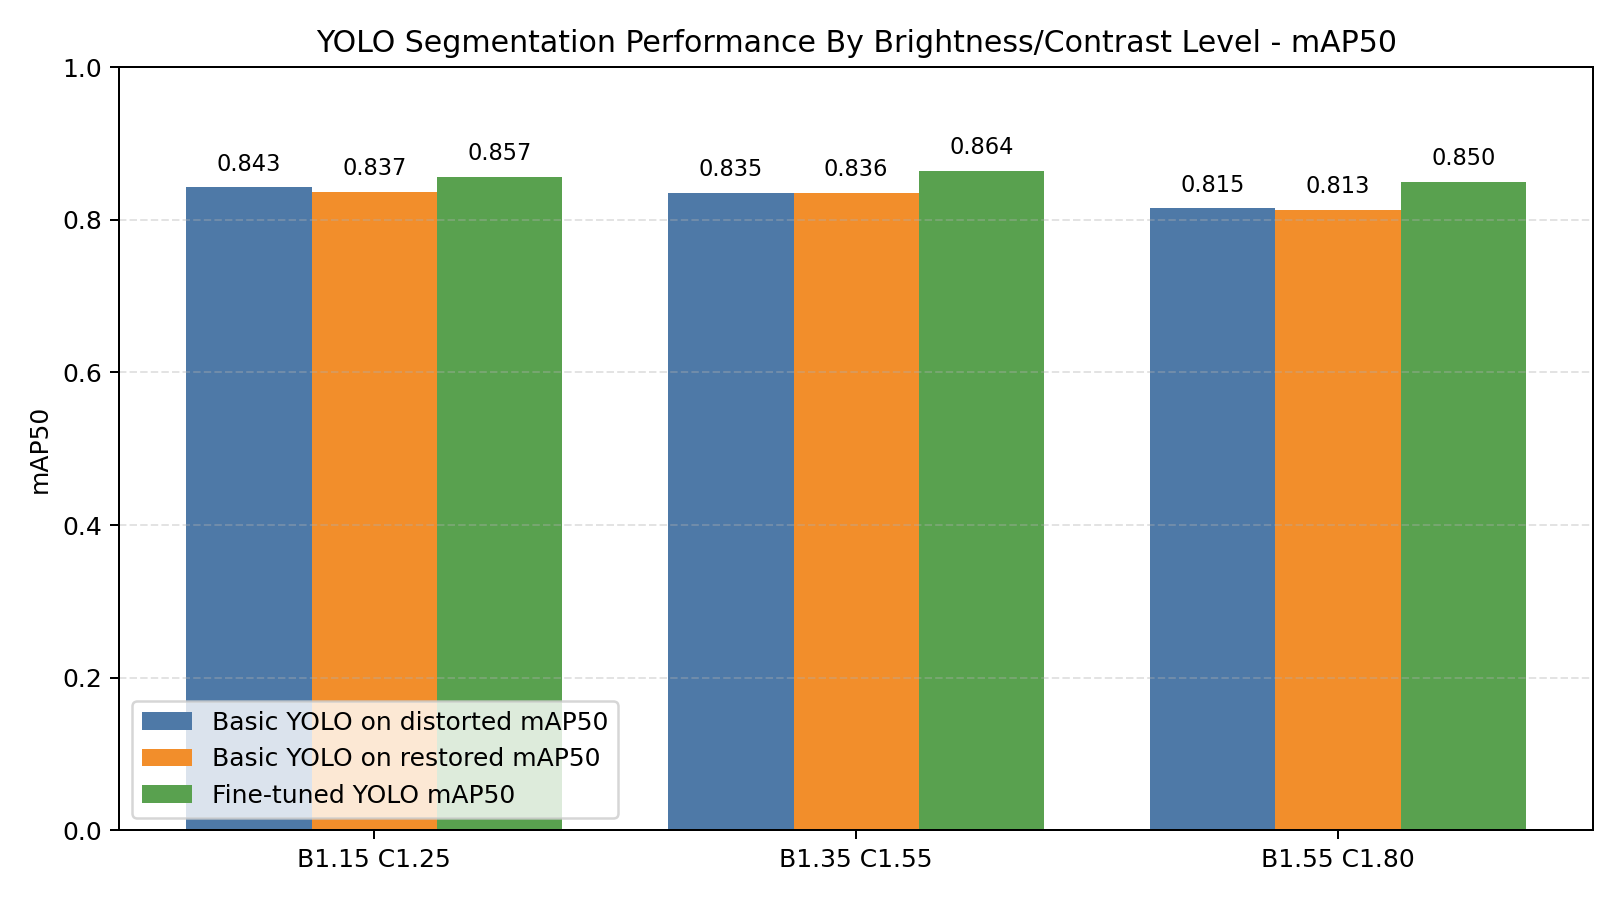
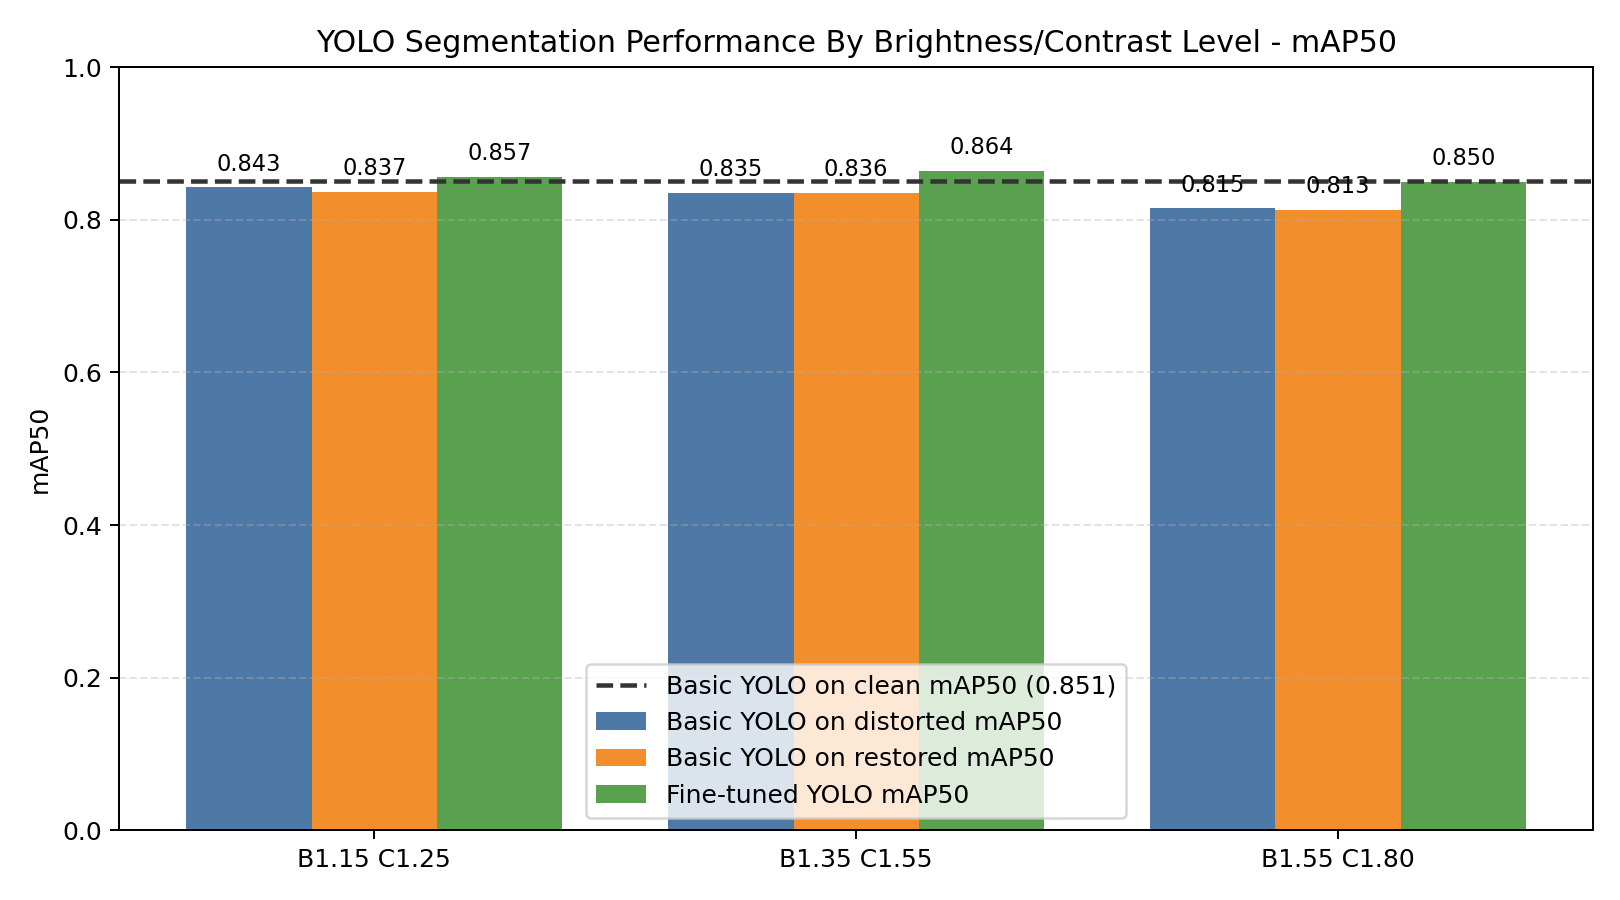
Add clean YOLO baseline to distortion graphs

Changed region(s): [[0.0617, 0.7156, 0.7099, 0.9333], [0.0926, 0.1867, 0.9877, 0.2178]]

diff --git a/task/task 3 yolo/plot_yolo_snr_results.py b/task/task 3 yolo/plot_yolo_snr_results.py
@@ -11,6 +11,7 @@ import numpy as np
 
 RESULTS_ROOT = Path("result/results task 3/yolo_fine_tuned")
 OUTPUT_DIR = Path("result/results task 3/yolo_snr_results")
+YOLO_BASIC_RESULTS_CSV = Path("result/results task 3/yolo_basic/train/results.csv")
 BASIC_METRICS_PATH = OUTPUT_DIR / "yolo_basic_distortion_level_metrics.csv"
 BASIC_RESTORED_METRICS_PATH = OUTPUT_DIR / "yolo_basic_restored_distortion_level_metrics.csv"
 DISTORTION_GROUPS = {
@@ -100,6 +101,23 @@ def read_basic_restored_metrics() -> dict[str, dict[str, float]]:
     return metrics_by_method
 
 
+def read_basic_clean_metrics() -> dict[str, float]:
+    if not YOLO_BASIC_RESULTS_CSV.exists():
+        raise FileNotFoundError(YOLO_BASIC_RESULTS_CSV)
+
+    with YOLO_BASIC_RESULTS_CSV.open(newline="", encoding="utf-8") as file:
+        rows = list(csv.DictReader(file))
+
+    if not rows:
+        raise ValueError(f"No training rows found in {YOLO_BASIC_RESULTS_CSV}")
+
+    row = rows[-1]
+    return {
+        "mask_map50": float(row["metrics/mAP50(M)"]),
+        "mask_map50_95": float(row["metrics/mAP50-95(M)"]),
+    }
+
+
 def save_metrics_csv(rows: list[dict[str, str | float]]) -> None:
     output_path = OUTPUT_DIR / "yolo_distortion_level_metrics.csv"
     with output_path.open("w", newline="", encoding="utf-8") as file:
@@ -126,6 +144,7 @@ def save_metric_graph(
     basic_values: list[float],
     basic_restored_values: list[float],
     fine_tuned_values: list[float],
+    basic_clean_value: float,
     title: str,
     metric_name: str,
     output_path: Path,
@@ -154,6 +173,13 @@ def save_metric_graph(
         width,
         label=f"Fine-tuned YOLO {metric_name}",
         color="#59A14F",
+    )
+    plt.axhline(
+        basic_clean_value,
+        color="#333333",
+        linestyle="--",
+        linewidth=1.8,
+        label=f"Basic YOLO on clean {metric_name} ({basic_clean_value:.3f})",
     )
 
     plt.xticks(x_positions, labels)
@@ -185,6 +211,7 @@ def main() -> None:
 
     basic_metrics_by_method = read_basic_metrics()
     basic_restored_metrics_by_method = read_basic_restored_metrics()
+    basic_clean_metrics = read_basic_clean_metrics()
     rows = []
 
     for distortion_type, group in DISTORTION_GROUPS.items():
@@ -225,6 +252,7 @@ def main() -> None:
             basic_map50_values,
             basic_restored_map50_values,
             fine_tuned_map50_values,
+            basic_clean_metrics["mask_map50"],
             group["title"],
             "mAP50",
             OUTPUT_DIR / group["map50_output"],
@@ -234,6 +262,7 @@ def main() -> None:
             basic_map50_95_values,
             basic_restored_map50_95_values,
             fine_tuned_map50_95_values,
+            basic_clean_metrics["mask_map50_95"],
             group["title"],
             "mAP50-95",
             OUTPUT_DIR / group["map50_95_output"],
